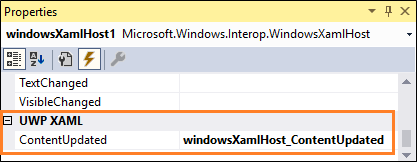
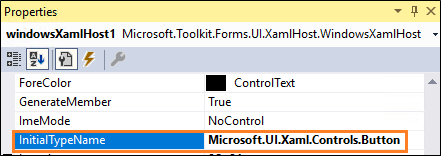
Adding Windows Forms updates

diff --git a/docs/controls/xaml-islands/WindowsXamlHost.md b/docs/controls/xaml-islands/WindowsXamlHost.md
@@ -2,12 +2,12 @@
 title: WindowsXAMLHost control
 author: normesta
 description: This guide helps you add UWP XAML controls to your WPF.
-keywords: windows 10, uwp, windows community toolkit, uwp community toolkit, uwp toolkit, host controls, xaml islands, WPF
+keywords: windows 10, uwp, windows community toolkit, uwp community toolkit, uwp toolkit, host controls, xaml islands, WPF, Windows Forms
 ---
 
 # WindowsXamlHost control
 
-By using a Windows XAML host control, you can add built-in or custom UWP controls to the User Interface (UI) of your WPF desktop applications.
+By using a Windows XAML host control, you can add built-in or custom UWP controls to the User Interface (UI) of your WPF or Windows Forms desktop application.
 
 ## Get started
 
@@ -21,7 +21,7 @@ After you install the NuGet package, [set up your project](https://docs.microsof
 
 ### Add a Windows XAML host control
 
-In the Visual Studio **Toolbox** window, find the **WindowsXamlHost** control, and then drag it onto the designer of your WPF application.
+In the Visual Studio **Toolbox** window, find the **WindowsXamlHost** control, and then drag it onto the designer of your WPF or Windows Forms application.
 
 You'll find the **WindowsXamlHost** control in the **Windows Community Toolkit** section of the Visual Studio **Toolbox**.
 
@@ -31,13 +31,25 @@ In the **Properties** window, set the **InitialTypeName** property to the fully 
 
 You'll find the **InitialTypeName** property in the **XAML** section of the **Properties** window.
 
+**WPF**
+
 ![InitialTypeName property in Properties Window](../../resources/images/Controls/WindowsXAMLHost/type-name-property-wpf.png)
+
+**Windows Forms**
+
+![InitialTypeName property in Properties Window](../../resources/images/Controls/WindowsXAMLHost/type-name-property-windows-forms.png)
 
 ### Initialize the UWP control
 
 In the **Properties** window, double-click the **ChildChanged** field to generate an event handler.
 
+**WPF**
+
 ![WindowsXamlHost control in the toolbox](../../resources/images/Controls/WindowsXAMLHost/xaml-content-updated-event-wpf.png)
+
+**Windows Forms**
+
+![WindowsXamlHost control in the toolbox](../../resources/images/Controls/WindowsXAMLHost/xaml-content-updated-event-windows-forms.png)
 
 Initialize your UWP control by adding code to this handler. Your code can set properties and handle the events of the UWP control. Here's a basic example that sets a property and handles an event of a UWP **Button** class.
 
@@ -85,6 +97,7 @@ private void UseHelperMethod()
     myHostControl.Name = "myWindowsXamlHostControl";
 
     // Associate the Windows XAML host control with the UWP control.
+    // For Windows Forms applications, you might use this.Controls.Add(myHostControl);
     myHostControl.Child = myButton;
 
     // Make the UWP control appear in the UI.
@@ -133,6 +146,7 @@ private void CreateUWPControlsFirst()
     myHostControl.Child = myButton;
 
     // Make the UWP control appear in the UI.
+    // For Windows Forms applications, you might use this.Controls.Add(myHostControl);
     this.MyStackPanel.Children.Add(myHostControl);
 }
 
@@ -145,7 +159,9 @@ private void MyButton_Click(object sender, Windows.UI.Xaml.RoutedEventArgs e)
 
 ## Add a custom UWP control
 
-You can add a custom control that contains one or more UWP controls and custom functionality. To do this, you'll configure two projects: A UWP class library project, and the WPF application project.
+You can add a custom control that contains one or more UWP controls and custom functionality. To do this, you'll configure two projects: A UWP class library project, and the WPF or Windows Forms application project.
+
+The following instructions uses a WPF project.
 
 ### Configure a UWP class library project
 
@@ -196,13 +212,13 @@ Browse to the location of the folder that you just created, select all of the fi
 
 Build your WPF application.
 
-## Bind data from your WPF application to a field in the custom control
+## Bind data from your desktop application to a field in the custom control
 
 In **Solution Explorer**, expand the UWP class library project, and open the code behind file of a page.
 
 ![Code behind file](../../resources/images/Controls/WindowsXAMLHost/code-behind-file-uwp-class.png)
 
-Add a field to that page. This example adds a field named ``WPFMessage``.
+Add a field to that page. This example adds a field named ``WPFMessage`` in a WPF application.
 
 ```csharp
 public sealed partial class MyPage : Page
